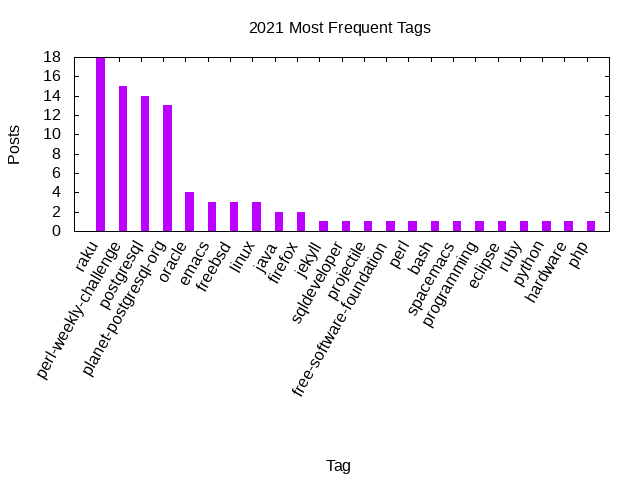
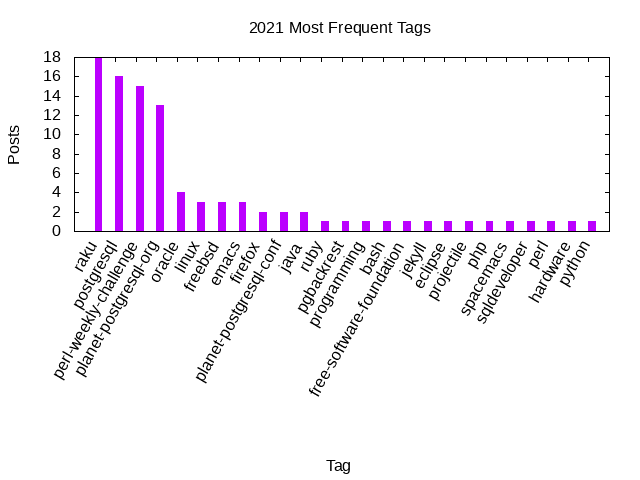
Stats update

Changed region(s): [[0.0625, 0.125, 0.9375, 0.8438], [0.3125, 0.7188, 0.3438, 0.7812]]

diff --git a/_includes/stats/2021.md b/_includes/stats/2021.md
@@ -1,33 +1,35 @@
 <a name="2021" />
 ## 2021 (work in progress)
 
-**43 total posts** have been written on 2021.
-There have been *23 different tags* used, the most
+**45 total posts** have been written on 2021.
+There have been *25 different tags* used, the most
 popular being (sorted by number of posts):
  
 - *raku* (18 posts)  
+- *postgresql* (16 posts)  
 - *perl-weekly-challenge* (15 posts)  
-- *postgresql* (14 posts)  
 - *planet-postgresql-org* (13 posts)  
 - *oracle* (4 posts)  
-- *emacs* (3 posts)  
-- *freebsd* (3 posts)  
 - *linux* (3 posts)  
-- *java* (2 posts)  
+- *freebsd* (3 posts)  
+- *emacs* (3 posts)  
 - *firefox* (2 posts)  
-- *jekyll* (1 posts)  
-- *sqldeveloper* (1 posts)  
-- *projectile* (1 posts)  
-- *free-software-foundation* (1 posts)  
-- *perl* (1 posts)  
-- *bash* (1 posts)  
-- *spacemacs* (1 posts)  
-- *programming* (1 posts)  
-- *eclipse* (1 posts)  
+- *planet-postgresql-conf* (2 posts)  
+- *java* (2 posts)  
 - *ruby* (1 posts)  
-- *python* (1 posts)  
+- *pgbackrest* (1 posts)  
+- *programming* (1 posts)  
+- *bash* (1 posts)  
+- *free-software-foundation* (1 posts)  
+- *jekyll* (1 posts)  
+- *eclipse* (1 posts)  
+- *projectile* (1 posts)  
+- *php* (1 posts)  
+- *spacemacs* (1 posts)  
+- *sqldeveloper* (1 posts)  
+- *perl* (1 posts)  
 - *hardware* (1 posts)  
-- *php* (1 posts).<br/>
+- *python* (1 posts).<br/>
 <br/>
 The following is the overall 2021 post ratio by month:
 <br/>
@@ -46,7 +48,7 @@ The following is the overall 2021 post ratio by tag (showing max 30 tags):
 
 <div align="right">
 <small>
-Last generated on 2021-04-26 at 10:46
+Last generated on 2021-04-28 at 10:20
 </small>
 </div>
 
